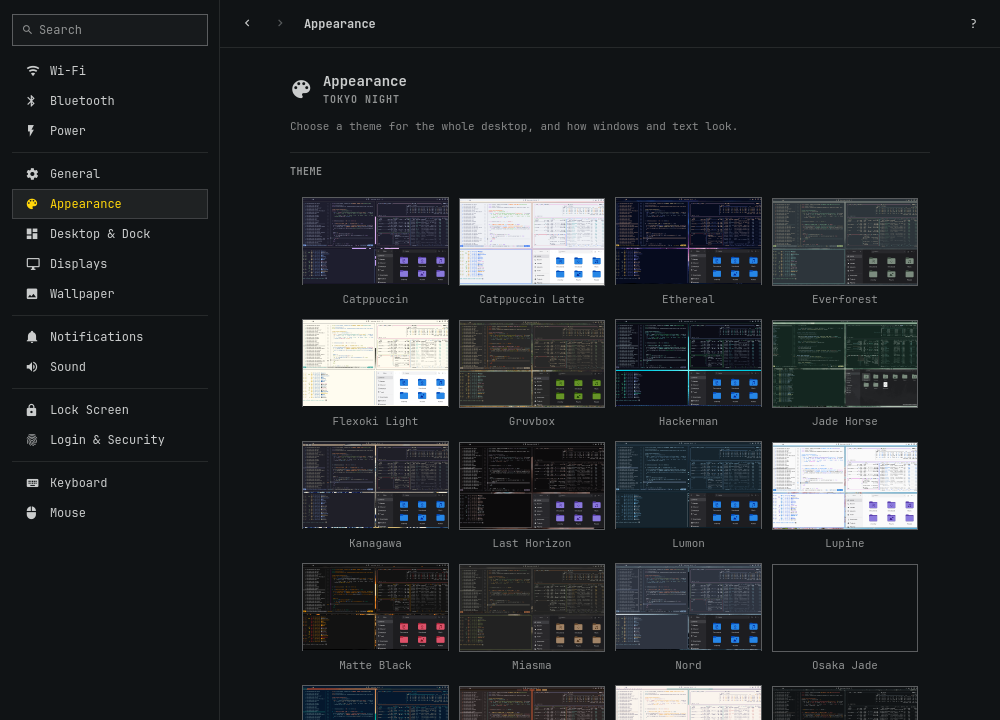
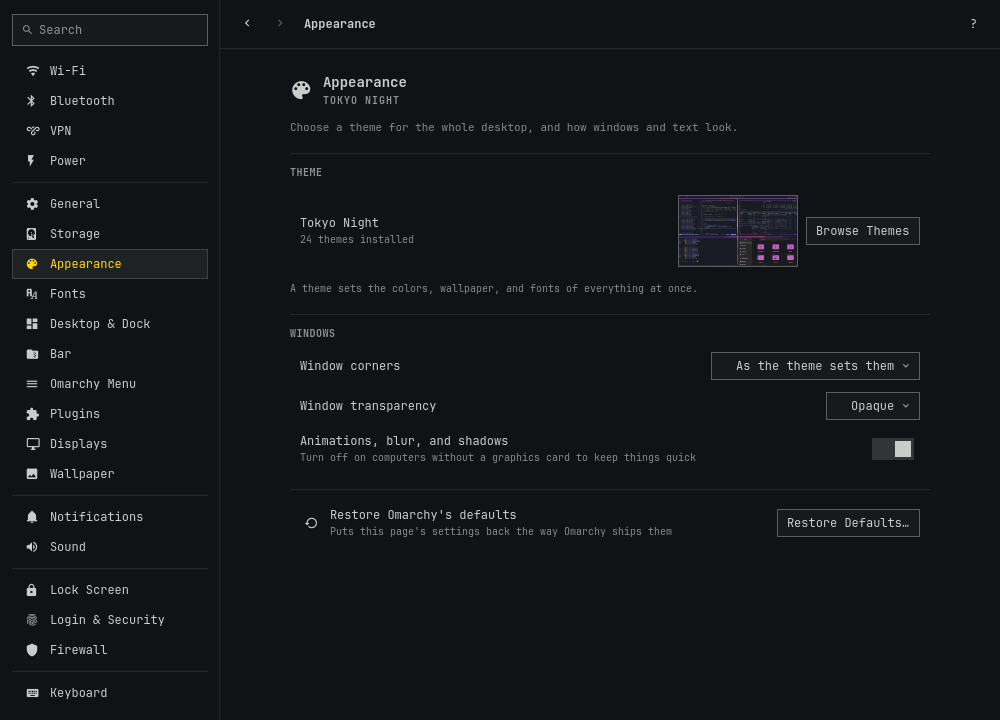
Add a preview and document requirements for the plugin marketplace

diff --git a/README.md b/README.md
@@ -37,6 +37,22 @@ ready, and Settings is then in the app launcher (Super + Space). After
 `omarchy plugin update ipkalid.settings`, it is rebuilt the same way. If a
 build tool is missing, a notification offers to add it in a terminal.
 
+### Requirements
+
+Omarchy with shell plugins (Quattro). Building needs `gcc`, `make`, and Qt 6
+(`qt6-base`, `qt6-declarative`, `qt6-wayland`, `qt6-imageformats`); Omarchy
+has them already, and the plugin offers to add any that are missing. Panes
+use the tools Omarchy ships for them and say so when one is missing:
+NetworkManager for Wi-Fi, `bluez-utils` for Bluetooth, `pactl` for sound,
+`power-profiles-daemon` for power modes, `brightnessctl` for laptop
+brightness, `ufw` for the firewall, and CUPS for printers.
+
+Settings changes your own config files (under `~/.config`) only when you
+change a setting, keeps a backup before rewriting one, and lists everything
+it changed under General › Changes & Backup. On first start it adds a small
+theme hook (`~/.config/omarchy/hooks/theme-set.d/omasettings-icon`) that
+redraws its icon in the new theme's colors.
+
 The plugin does nothing else in the shell. If the Arch package from
 `bin/install` is installed, the plugin leaves it be.
 
